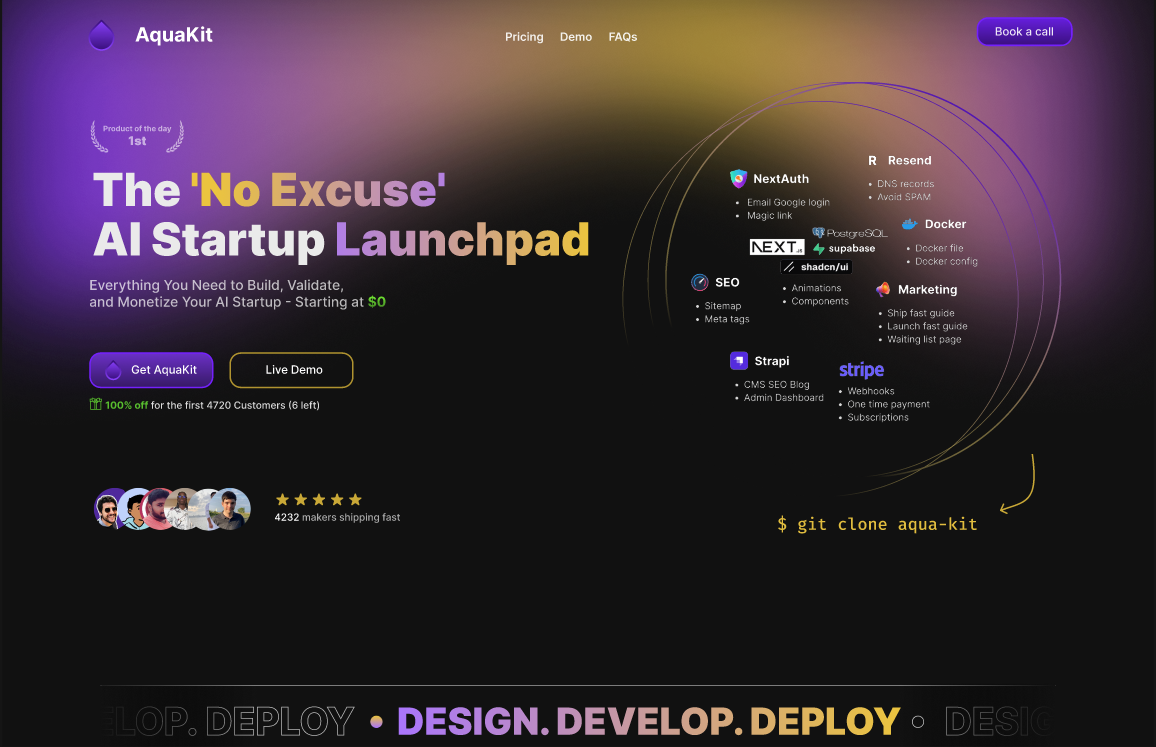
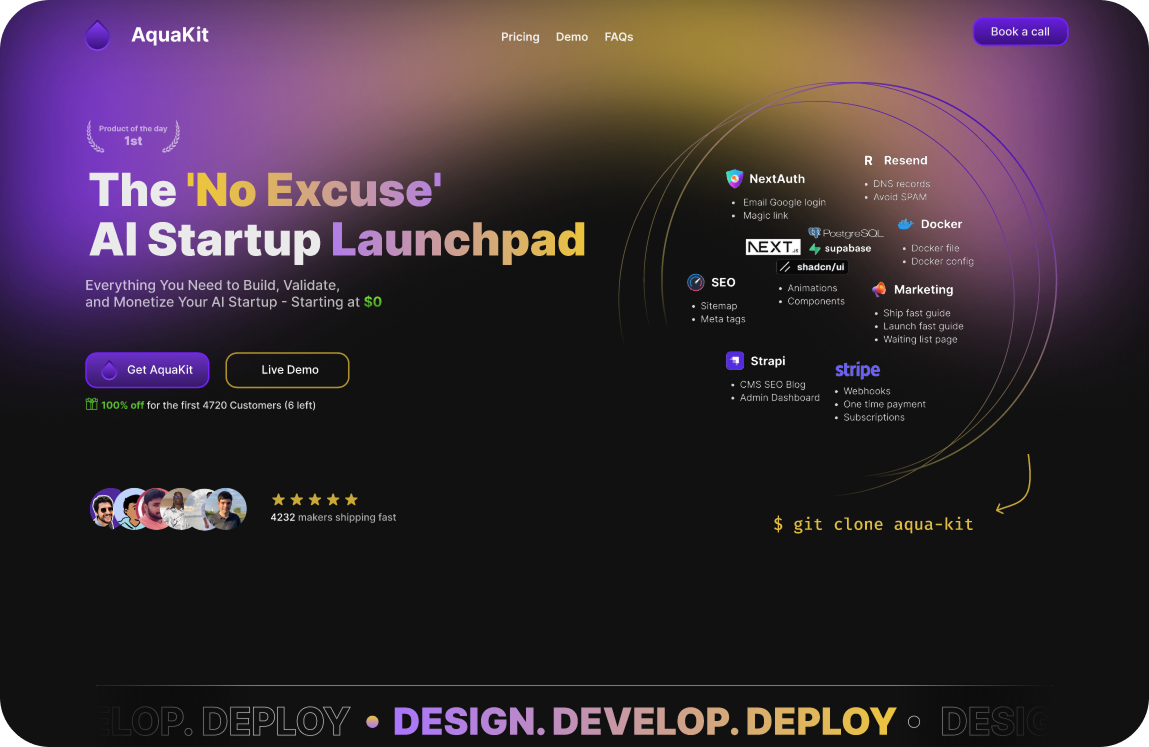
Update AquaKit preview image URL in README.md and enhance image styling

diff --git a/README.md b/README.md
@@ -32,7 +32,7 @@
 <h2 align="center">About This Project</h3>
 
 <div align="center">
-  <img src="/public/images/aquakit-preview.png" alt="AquaKit Screenshot" style="border-radius: 20px; max-width: 100%;" />
+  <img src="https://raw.githubusercontent.com/0xAquaWolf/aquakit/main/public/images/aquakit-preview.png" alt="AquaKit Screenshot" style="border-radius: 20px; max-width: 100%; box-shadow: 0 4px 20px rgba(0,0,0,0.1);" />
 </div>
 
 
